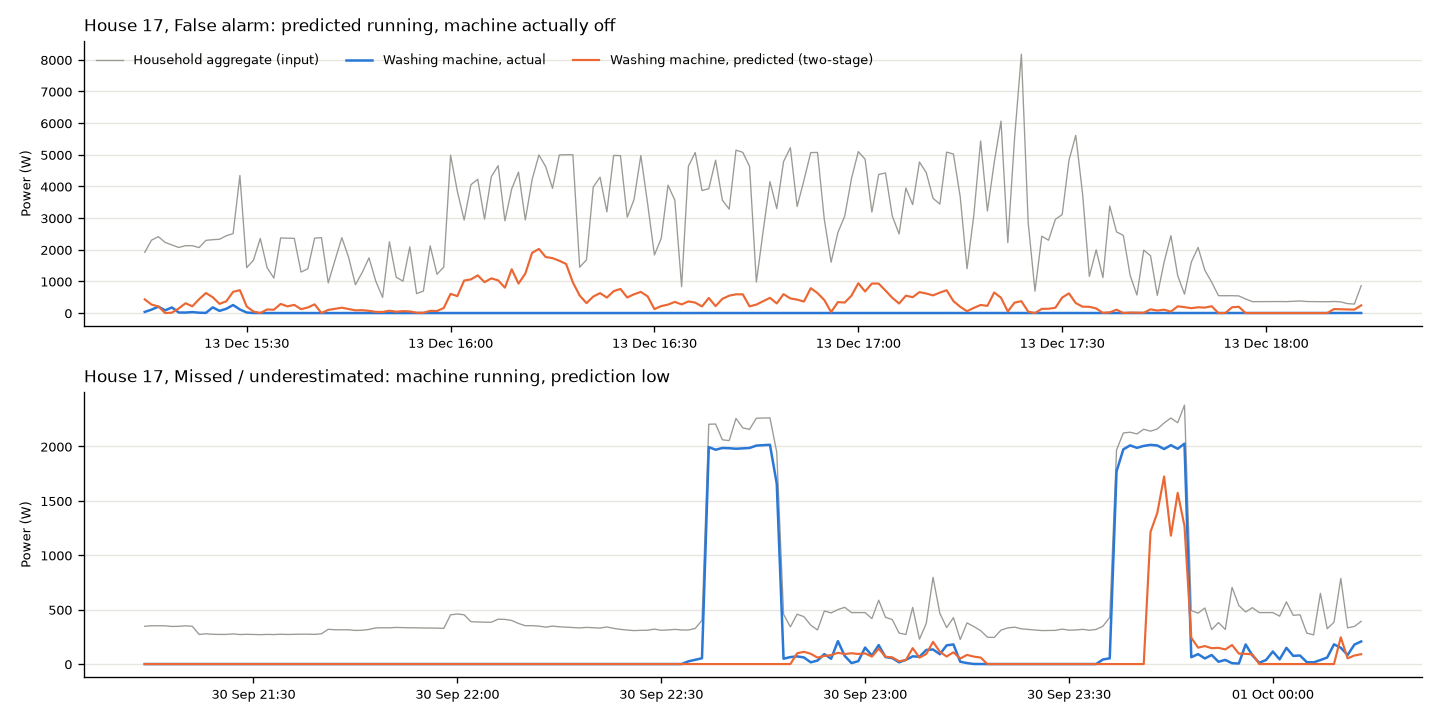
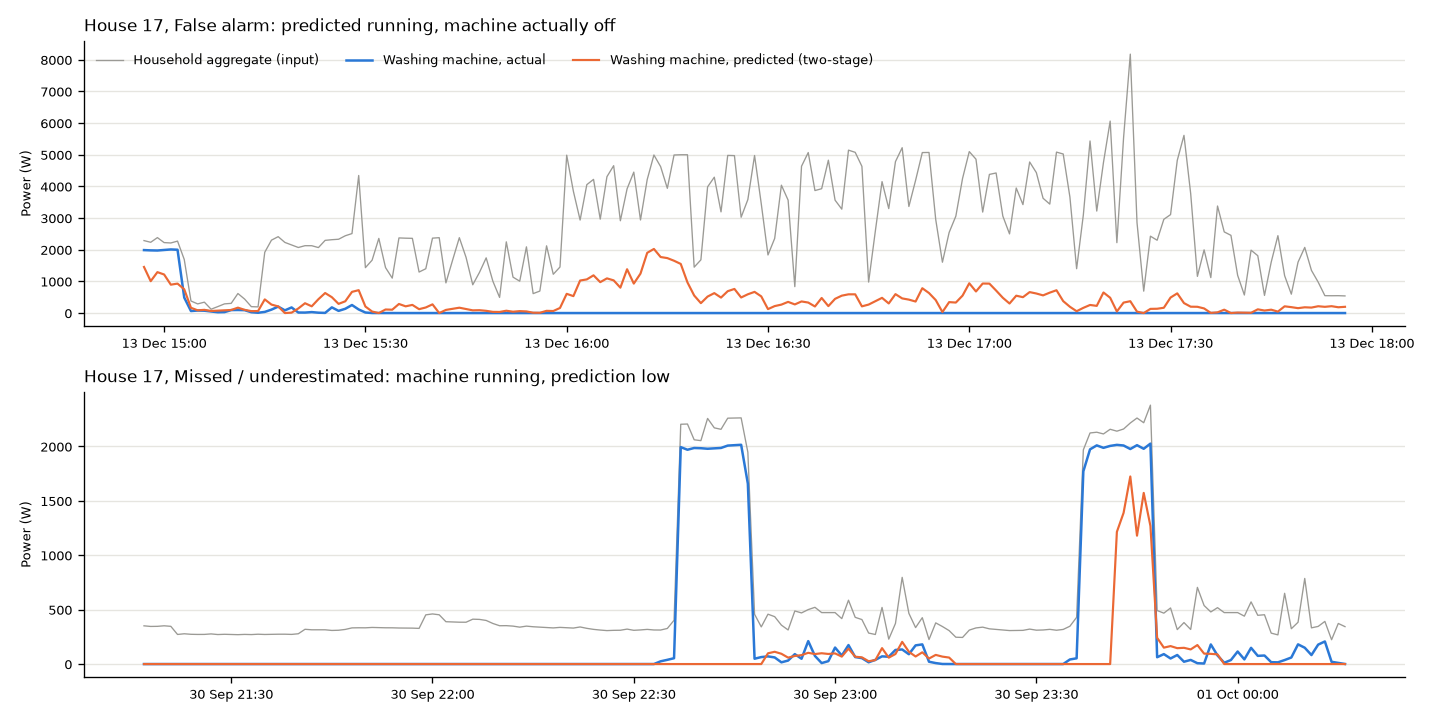
Step 4 outputs: cycle rule

diff --git a/outputs/model_metrics.md b/outputs/model_metrics.md
@@ -8,7 +8,7 @@ Train houses [2, 5, 7, 9], validation house [15], test house [17]. Best iteratio
 always_off                10.507                435.109                -100.000                       0.245             0.000          0.000      0.000
 profile                   35.296                399.195                 154.972                       0.479             0.037          0.801      0.070
 lgbm_direct               14.109                295.968                   1.081                       0.202             0.253          0.790      0.383
-lgbm_2stage               16.419                193.576                  89.810                       0.259             0.329          0.791      0.465
+lgbm_2stage               15.786                187.840                  86.980                       0.254             0.341          0.815      0.481
 
 ## Validation house 15
 
@@ -16,7 +16,7 @@ lgbm_2stage               16.419                193.576                  89.810 
 always_off                17.221                585.997                -100.000                       0.381             0.000          0.000      0.000
 profile                   42.206                556.901                  55.821                       0.590             0.038          0.680      0.072
 lgbm_direct               13.696                357.845                 -41.622                       0.248             0.566          0.694      0.624
-lgbm_2stage               10.212                215.434                  -6.778                       0.147             0.724          0.747      0.735
+lgbm_2stage                9.961                208.975                  -5.652                       0.143             0.719          0.770      0.744
 
 ## Top 10 features of the classifier (split count)
 
